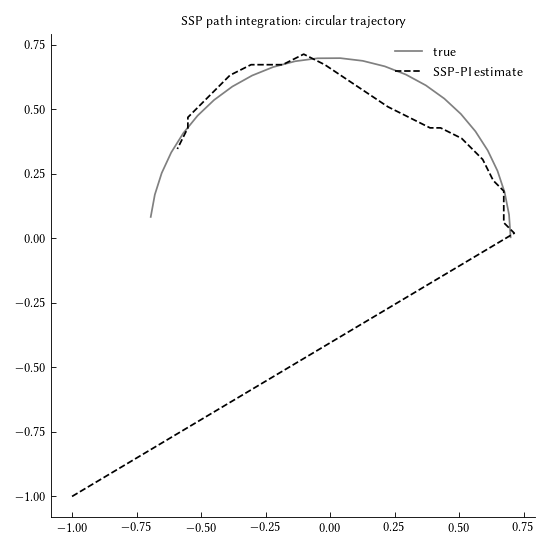
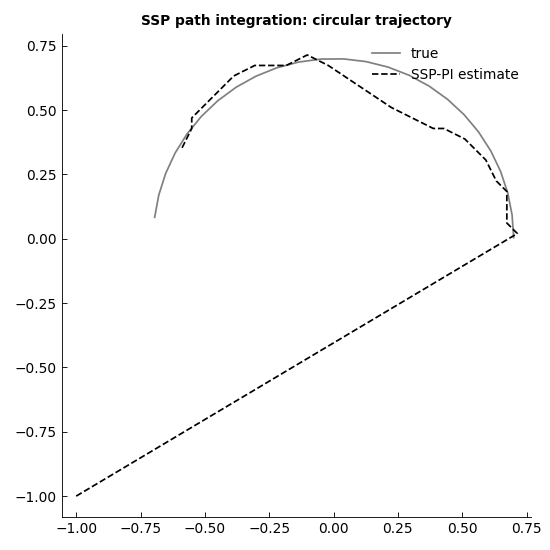
ssp-path-integrator: disable matplotlib usetex in example
Importing sspslam pulls in sspslam.utils.figure_utils, which sets
matplotlib's text.usetex=True at import time. CI runners do not have
LaTeX installed, causing the example's plt.tight_layout() call to
fail. Reset text.usetex=False locally before plotting; regenerate
the shipped figure with default matplotlib typography.

diff --git a/submissions/ssp-path-integrator/examples/example_usage.py b/submissions/ssp-path-integrator/examples/example_usage.py
@@ -96,6 +96,9 @@ def main():
     try:
         import matplotlib
         matplotlib.use("Agg")
+        # sspslam.utils.figure_utils unconditionally sets text.usetex=True at
+        # import time; undo that here so the example does not require LaTeX.
+        matplotlib.rcParams["text.usetex"] = False
         import matplotlib.pyplot as plt
 
         fig_dir = os.path.join(os.path.dirname(__file__), "..", "figures")